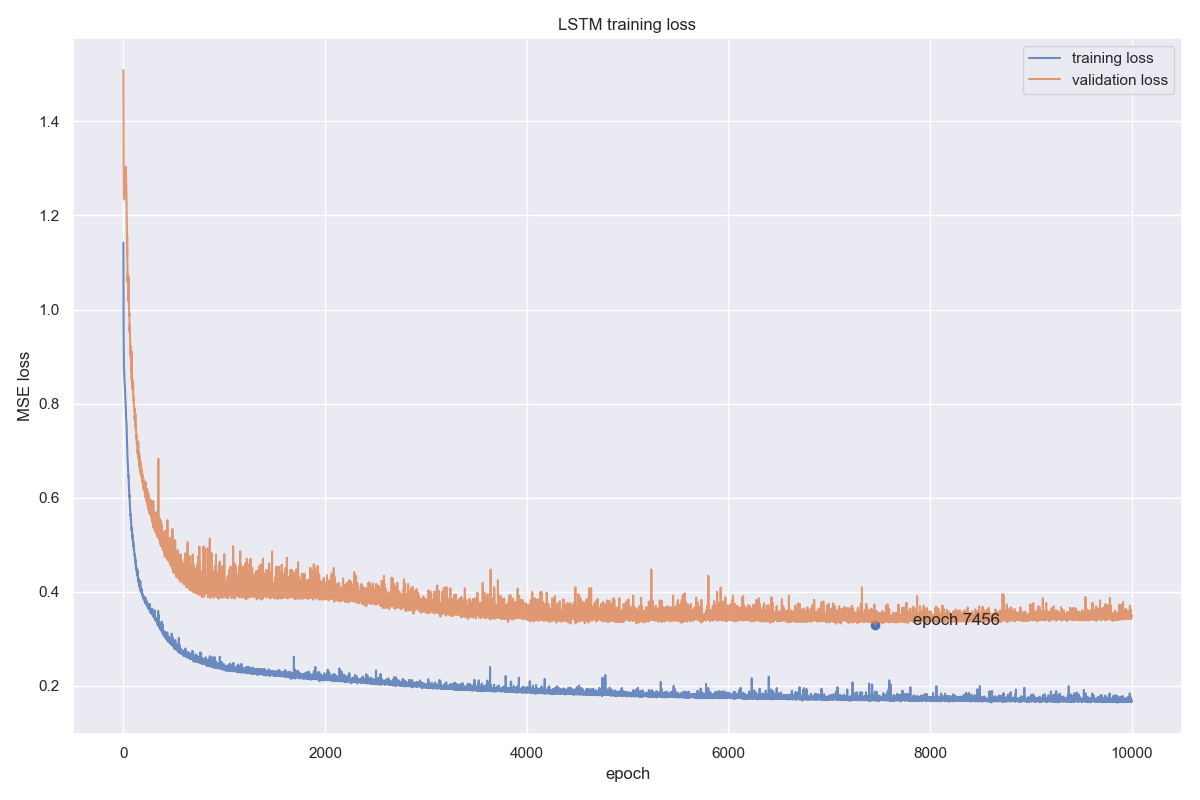
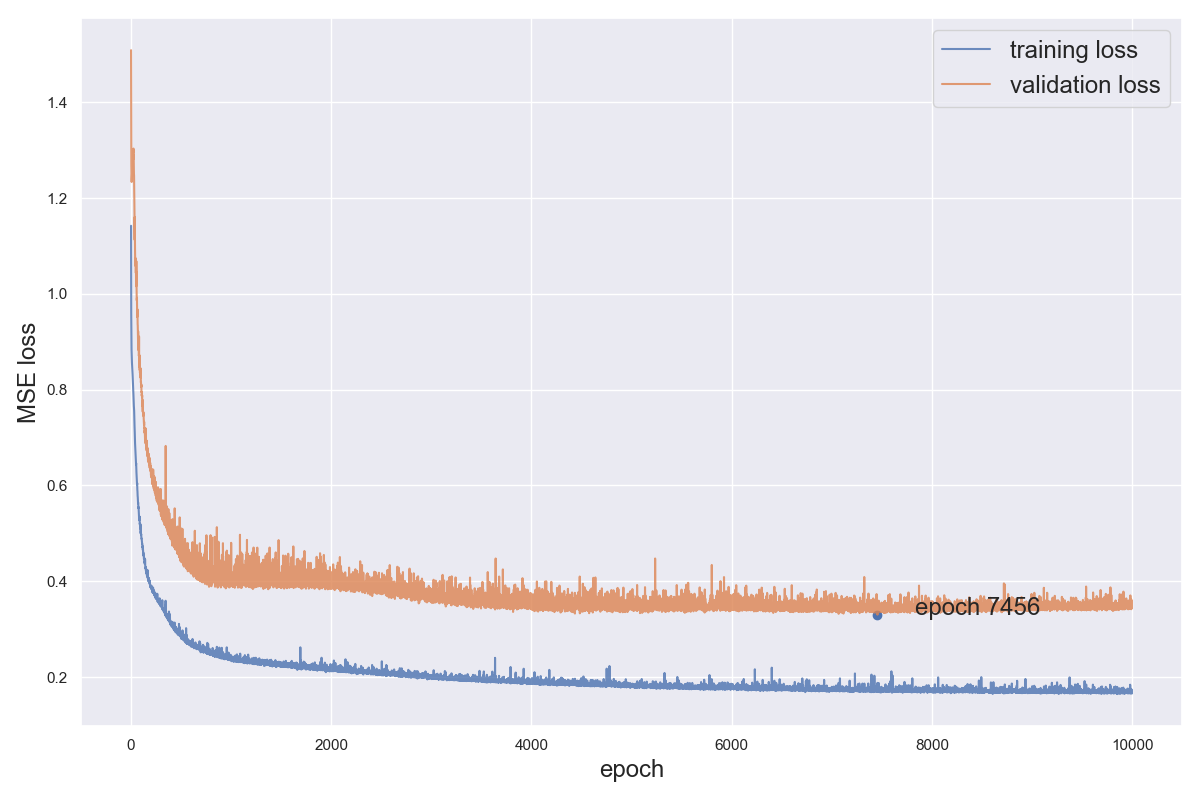
Re-ran loss plots with larger text for report.

diff --git a/models/LSTM/main.py b/models/LSTM/main.py
@@ -12,14 +12,14 @@ evaluate_only = True
 data_folder = path.join(path.dirname(path.dirname(path.dirname(path.realpath(__file__)))), "data")
 model_folder = path.dirname(path.dirname(path.realpath(__file__)))
 
-textfile = open(path.join(data_folder, "borough_matches.txt"), "r")  # "greater_london_cluster.txt"
+textfile = open(path.join(data_folder, "greater_london_cluster.txt"), "r")  # "greater_london_cluster.txt"
 boroughs = textfile.read().split("\n")
 
-boroughs_descriptor = "all_boroughs"  # "greater_london_cluster"
+boroughs_descriptor = "greater_london_cluster"  # "greater_london_cluster"
 species = "NO2"
-training_window = 7
+training_window = 14
 quantile_step = 0.25
-noise_std = False
+noise_std = 0.3
 # ----------------------------------------------------------------------------------------------------------------------
 #         Process data for modelling
 # ----------------------------------------------------------------------------------------------------------------------

diff --git a/models/LSTM/lstm_model_class.py b/models/LSTM/lstm_model_class.py
@@ -372,11 +372,11 @@ class LSTMModel():
         ax.scatter(best_epoch, min(val_losses))
 
         # Add a legend and title, label the plot and axes
-        plt.annotate(f"epoch {best_epoch}", (best_epoch * 1.05, min(val_losses)))
-        plt.legend()
-        plt.xlabel("epoch")
-        plt.ylabel("MSE loss")
-        plt.title(f"LSTM training loss")
+        plt.annotate(f"epoch {best_epoch}", (best_epoch * 1.05, min(val_losses)), fontsize="x-large")
+        plt.legend(fontsize="x-large")
+        plt.xlabel("epoch", fontsize="x-large")
+        plt.ylabel("MSE loss", fontsize="x-large")
+        # plt.title(f"LSTM training loss", fontsize="x-large")
 
         if show_plot:
             plt.show()
